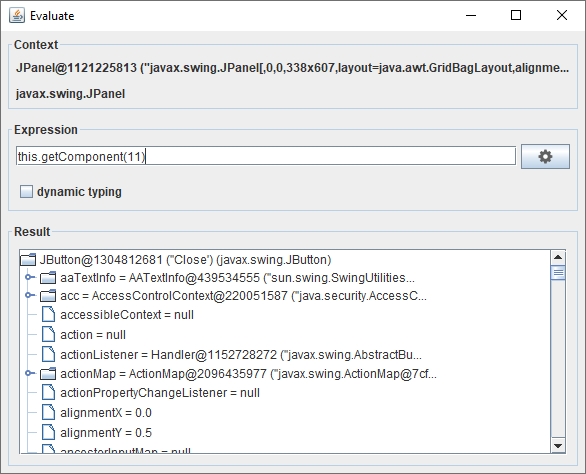
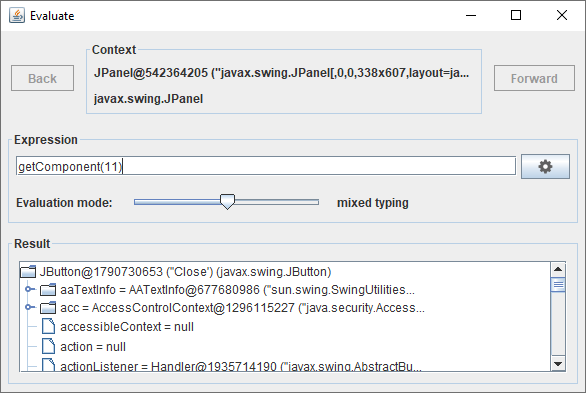
Updated readme and images

diff --git a/README.md b/README.md
@@ -109,7 +109,7 @@ The ["Iterables" tab](#iterables-tab) in the inspection dialog offers common ope
 
 Marple allows you to evaluate expressions. These expressions are evaluated in a certain context. This context can be referred to by the keyword `this`. Instead of `this.myField` or `this.myMethod()` you can simply write `myField` or `myMethod()` when referring to the field `myField` or the method `myMethod()` of the context object. Some notable features for expression evaluation are:
 
-  * [Dynamic typing](#dynamic-typing): When activated, then runtime types rather than declared types are used when evaluating expressions and suggesting code completions. This can save tedious casts.  
+  * Different [evaluation modes](#evaluation-modes): You can choose between static typing, dynamic typing, and a mixed mode. With dynamic typing, runtime types rather than declared types are used when evaluating expressions and suggesting code completions. This can save tedious casts.
   * Class and package [imports](#imports) 
   * Definition of [variables](#variables) that can be used within expressions
   * A language extension that allows navigating in a [custom, application-specific hierarchy](#custom-hierarchy)  
@@ -130,7 +130,7 @@ The in-application debugging capabilities are a nice feature, but they are negli
 
 The GUI elements of your application are the entry points for the analysis with Marple. From there you can navigate along fields in the inspection dialog, analyze the result of expressions in the evaluation dialog, or search for instances in the search dialog. Many Marple elements provide a context menu that offers several options to continue the investigation. These elements are called ["navigable elements"](#navigable-elements).
 
-Additionally, the inspection dialog maintains a history of inspected objects. This allows you to continue your investigation at an object you have analyzed earlier or to look something up in the history and then continue your current investigation.    
+Additionally, the inspection and the evaluation dialog maintain a history of inspected or evaluated objects, respectively. This allows you to continue your investigation at an object you have analyzed earlier or to look something up in the history and then continue your current investigation.    
 
 # Default Shortcuts
 
@@ -203,6 +203,18 @@ builder.subcomponentHierarchyStrategy(JTree.class, createSingleSubcomponentStrat
 ```
 Note that the bi-function that you have to specify for the method `createSingleSubcomponentStrategy()` may return `null` if there is no subcomponent for the specified position.
 
+## Evaluation Settings
+
+The interface `EvaluationSettings` contains information about what will be displayed when the evaluation dialog is opened for certain objects. You can create an instance of `EvaluationSettings` via its builder that you obtain via `EvaluationSettingsBuilder.create()`.
+
+`EvaluationSettings` do not influence how expressions are evaluated. This can be achieved by specifying `ParserSettings` (see Section [Parser Settings](#parser-settings)). Instead, `EvaluationSettings` allow you to specify
+
+The `EvaluationSettingsBuilder` provides 2 methods:
+
+  1. The method `suggestExpressionToEvaluate` lets you specify which expression to display initially for which object. When nothing is specified for a certain object, then `this` is displayed.
+  
+  1. The method `addRelatedObjectsProvider` lets you specify which related objects to show in a dedicated panel when evaluating a certain object.
+
 ## Visual Settings
 
 The interface `VisualSettings` describes how to display objects as text and which tabs are available in the [inspection dialog](#inspection-dialog) for which object. You can create an instance of `VisualSettings` via the `VisualSettingsBuilder`. There are different ways to create a `VisualSettingsBuilder`:
@@ -259,7 +271,7 @@ The builder allows you, among others,
   * to configure the behavior of code completions (currently not configurable via API)
   * to specify the [imports](#imports) (classes and packages),
   * to specify the minimum access modifier (`private`, `package private`, `protected`, or `public`) a field or method must have in order to be accessed from within expressions
-  * to enable/disable [dynamic typing](#dynamic-typing)
+  * to choose the [evaluation mode](#evaluation-modes)
   * to predefine [variables](#variables), which you can create via `ParserSettingsUtils.createVariable`
   * to specify a [custom hierarchy](#custom-hierarchy)   
 
@@ -287,7 +299,7 @@ Marple uses GUI components of your application as entry points for you analysis.
 ![Variable Settings](images/navigable_elements/evaluation_dialog/variables_settings.png)<br/><br/>
 ![Custom Hierarchy Settings](images/navigable_elements/evaluation_dialog/custom_hierarchy_settings.png)
 
-* Values of unnamed and names slots in the [debug support dialog](#debug-support):<br/>
+* Values of unnamed and named slots in the [debug support dialog](#debug-support):<br/>
 ![Unnamed Slots](images/navigable_elements/debug_support/unnamed_slots.png)<br/><br/>
 ![Named Slots](images/navigable_elements/debug_support/named_slots.png)
 
@@ -415,12 +427,12 @@ The "Iterables" tab is only visible if the selected object is an `Iterable` or a
 
 ### Lambdas
 
-For all operations you have to specify a lambda. However, you do not use Java lambda notation for this, but write an expression or a statement expressed in terms of `this`. In the "Iterables" tab, the keyword `this` refers to each element in the `Iterable`, one after another.
+Zenodot, the library Marple uses to evaluate expressions, supports lambdas. However, due to the lack of type inference, implementing generic functional interfaces by a lambda is a bit tedious because you have to cast the parameters to the correct type when accessing them. This is why Marple uses a different notation for lambdas with one parameter for the "Iterables" tab: The body of the lambda is written as an expression or a statement expressed in terms of `this`. The keyword `this` refers to each element in the `Iterable`, one after another.
 
 *Examples:*
 
   1. A predicate that checks whether an element is greater than 0.9 is written as `this > 0.9` (instead of `x -> x > 0.9`).
-  1. A function that maps an element to its String representation is written as `this.toString()` (instead of `x -> x.toString()` or `Object::toString`). Note that you can omit `this` in this case an simply write `toString()`.
+  1. A function that maps an element to its String representation is written as `this.toString()` (instead of `x -> x.toString()` or `Object::toString`). Note that you can omit `this` in this case and simply write `toString()`.
   1. A consumer that prints an element to the console is written as `System.out.println(this)` (instead of `x -> System.out.println(x)` or `System.out::println`).
 
 ### Filter
@@ -491,7 +503,7 @@ In this example, all elements of the `Iterable` that fall into the intervals [0.
 
 ### Stream-like Analysis
 
-The expression parser does not support lambdas and, hence, streaming. However, the "Iterables" tab provides a way to analyze `Iterable`s similar to the streaming approach. The result of an operation is displayed at the bottom of the dialog. If it is a list (you will not use an index map as result type during streaming) and you click onto that list, then the inspection dialog uses that newly selected list as context and updates all tabs. Since that list is an `Iterable` as well, you remain in the "Iterables" tab. Hence, you can apply the next streaming operation.
+The "Iterables" tab provides a way to analyze `Iterable`s similar to the streaming approach. The result of an operation is displayed at the bottom of the dialog. If it is a list (you will not use an index map as result type during streaming) and you click onto that list, then the inspection dialog uses that newly selected list as context and updates all tabs. Since that list is an `Iterable` as well, you remain in the "Iterables" tab. Hence, you can apply the next streaming operation.
 
 Note that with that workflow you benefit from the inspection history, which you can navigate in using the "Back" and "Forward" buttons.
 
@@ -556,7 +568,7 @@ The evaluation dialog allows you to evaluate expressions. There are two ways to 
 
 The evaluation dialog is rather simple: You enter the expression you want to evaluate and press enter. The result (or possibly a syntax error or an exception) is then displayed at the bottom of the dialog. There are two possibilities to configure how the expression is evaluated:
 
-  * The ["dynamic typing"](#dynamic-typing) check box allows you to toggle dynamic typing easily.
+  * The ["evaluation mode"](#evaluation-modes) slider allows you to configure the evaluation mode. By default it is "mixed". This means that expressions are evaluated based on runtime types, but without side effects. Particularly, methods are not evaluated during parsing in order to determine the methods' runtime return type because this could cause side effects.
   * By clicking the settings button ![Settings Button](images/evaluation_dialog/settings_button.png) you can configure many more [evaluation settings](#evaluation-settings).
 
 Expression text fields have two features that simplify writing expressions:
@@ -598,11 +610,19 @@ In this example, we wrapped the file/directory structure under the user home dir
 
 Note that this hierarchy is not hard-coded, but users can configure Marple to support arbitrary hierarchies. Additionally, Marple supports code completion for these hierarchies, even if they contain spaces. See [Custom Hierarchy](#custom-hierarchy) for details. 
 
-### Dynamic Typing
+### Evaluation Modes
 
-Without dynamic typing, expressions are evaluated based on declared types. You can only call methods and access fields that the declared types provide. When you need to analyze the runtime type, then you have to cast the instance to that type.
+Marple provides three different evaluation modes:
 
-With dynamic typing, expressions are evaluated based on runtime types. That saves you unnecessary casts, but forces the evaluation framework to evaluate subexpressions to determine the runtime type. In particular, methods will be executed even during code completion. This can be critical if the method has side effects or its evaluation is expensive. This is why dynamic typing is deactivated by default. 
+* static typing
+* dynamic typing
+* mixed typing
+
+With static typing, expressions are evaluated based on declared types. You can only call methods and access fields that the declared types provide. When you need to analyze the runtime type, then you have to cast the instance to that type.
+
+With dynamic typing, expressions are evaluated based on runtime types. That saves you unnecessary casts, but forces the evaluation framework to evaluate subexpressions to determine the runtime type. In particular, methods will be executed even during code completion. This can be critical if the method has side effects or if its evaluation is expensive.
+
+Mixed typing is like dynamic typing, but without side effects. Particularly, no methods will be evaluated before the whole expression is evaluated. Instead, like with static typing the type of the value returned by a method is assumed to be the return type declared by the method.
 
 Consider a `JPanel` whose 11'th component is a `JButton`:<br/>
 ![Dynamic Typing Sample](images/dynamic_typing/sample.png)
